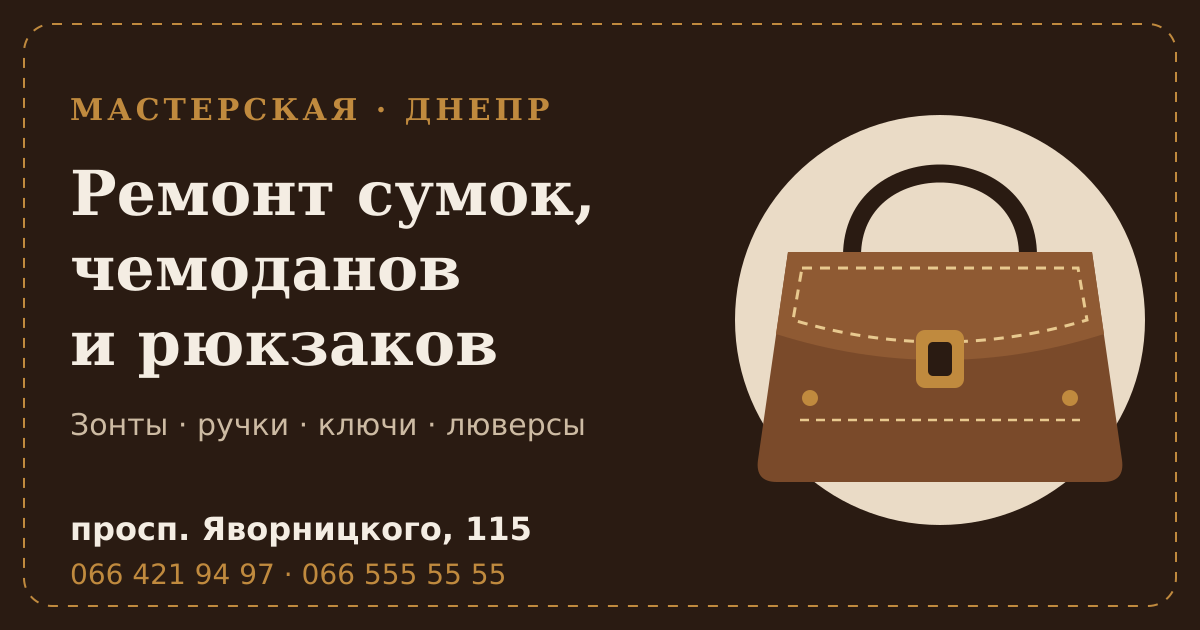
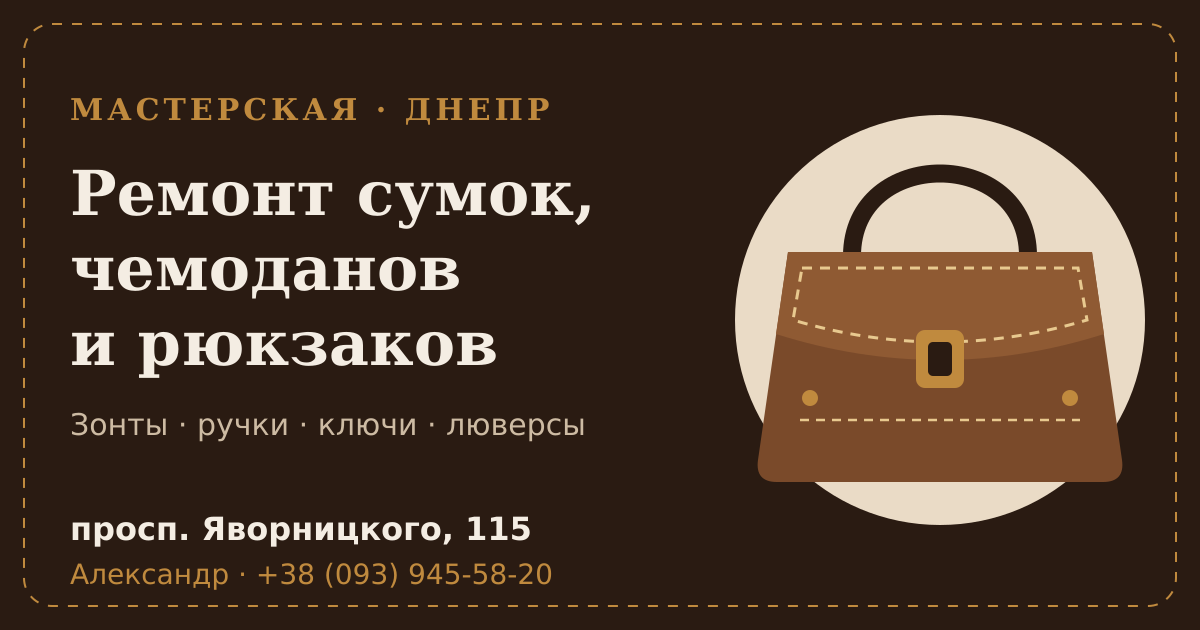
Update phone numbers: main +38 (093) 945-58-20, old one marked temporarily unavailable
Claude-Session: https://claude.ai/code/session_011jZw97bpinQJUhrSSuhUDp

Changed region(s): [[0.0617, 0.8746, 0.4625, 0.9349]]

diff --git a/index.html b/index.html
@@ -46,7 +46,7 @@
       "description": "Ремонт сумок, валіз, рюкзаків і парасольок, пошиття ручок, виготовлення ключів, встановлення люверсів, кнопок і заклепок.",
       "url": "https://alexsandr81.github.io/repair-shop/",
       "image": "https://alexsandr81.github.io/repair-shop/og-image.png",
-      "telephone": ["+380664219497", "+380665555555"],
+      "telephone": "+380939455820",
       "address": {
         "@type": "PostalAddress",
         "streetAddress": "просп. Дмитра Яворницького, 115",
@@ -105,7 +105,7 @@
         {
           "@type": "Question",
           "name": "Чи потрібен запис?",
-          "acceptedAnswer": { "@type": "Answer", "text": "Ні, запис не потрібен. Приходьте в робочий час або зателефонуйте за номерами 066 421 94 97 чи 066 555 55 55." }
+          "acceptedAnswer": { "@type": "Answer", "text": "Ні, запис не потрібен. Приходьте в робочий час або зателефонуйте за номером +38 (093) 945-58-20 (Олександр)." }
         },
         {
           "@type": "Question",
@@ -240,6 +240,10 @@ p{margin:0}
 .info .val{margin-top:8px;font-size:19px;font-style:normal}
 .info .phone{display:block;font-size:26px;font-weight:700;text-decoration:none;padding:4px 0}
 .info .phone:hover{color:var(--brass)}
+.info .phone-item{padding:6px 0}
+.info .who{display:block;font-size:15px;color:var(--cream-muted)}
+.info .phone.dim{color:var(--cream-muted);font-weight:500}
+.info .off .who{color:var(--brass)}
 .hours{width:100%;border-collapse:collapse;margin-top:8px;font-size:18px}
 .hours th{text-align:left;font-weight:500;padding:6px 16px 6px 0;color:var(--cream-muted)}
 .hours td{padding:6px 0;font-weight:700;text-align:right;white-space:nowrap}
@@ -319,7 +323,7 @@ p{margin:0}
         <span class="on" lang="uk" aria-current="true">UA</span>
         <a href="ru/" hreflang="ru" lang="ru" title="Русский">RU</a>
       </div>
-      <a class="btn btn-dark" href="tel:+380664219497">066 421 94 97</a>
+      <a class="btn btn-dark" href="tel:+380939455820">+38 (093) 945-58-20</a>
     </div>
   </div>
 </header>
@@ -333,7 +337,7 @@ p{margin:0}
       <h1 id="h1">Друге життя вашим сумкам, рюкзакам і валізам</h1>
       <p class="sub">Лагодимо, шиємо та підбираємо фурнітуру вручну. Ручки на замовлення, ремонт парасольок, ключі, у тому числі електронні, люверси, кнопки й заклепки — усе в одній майстерні.</p>
       <div class="actions">
-        <a class="btn btn-brass" href="tel:+380664219497">Зателефонувати</a>
+        <a class="btn btn-brass" href="tel:+380939455820">Зателефонувати</a>
         <a class="btn btn-ghost" href="#contacts">Як нас знайти</a>
       </div>
       <p class="note">Запис не потрібен: принесіть річ, ми подивимося на неї й одразу скажемо ціну. Працюємо вт–пт 8:00–17:00, сб 9:00–18:00.</p>
@@ -623,7 +627,7 @@ p{margin:0}
       <div class="faq">
         <details>
           <summary>Чи потрібен запис?</summary>
-          <p>Ні, запис не потрібен. Приходьте в робочий час або зателефонуйте за номерами 066 421 94 97 чи 066 555 55 55.</p>
+          <p>Ні, запис не потрібен. Приходьте в робочий час або зателефонуйте за номером +38 (093) 945-58-20 (Олександр).</p>
         </details>
         <details>
           <summary>Скільки коштує ремонт?</summary>
@@ -657,8 +661,14 @@ p{margin:0}
           <div class="row">
             <div class="label">Телефони</div>
             <div class="val">
-              <a class="phone" href="tel:+380664219497">066 421 94 97</a>
-              <a class="phone" href="tel:+380665555555">066 555 55 55</a>
+              <div class="phone-item">
+                <a class="phone" href="tel:+380939455820">+38 (093) 945-58-20</a>
+                <span class="who">Олександр</span>
+              </div>
+              <div class="phone-item off">
+                <span class="phone dim">+38 (066) 421-94-97</span>
+                <span class="who">Олександр · тимчасово не працює</span>
+              </div>
             </div>
           </div>
           <div class="row">
@@ -693,12 +703,12 @@ p{margin:0}
 <footer class="site-footer">
   <div class="wrap foot">
     <span>© Майстерня з ремонту сумок · м. Дніпро, просп. Дмитра Яворницького, 115</span>
-    <span><a href="tel:+380664219497">066 421 94 97</a> · <a href="tel:+380665555555">066 555 55 55</a></span>
+    <span>Олександр: <a href="tel:+380939455820">+38 (093) 945-58-20</a> · +38 (066) 421-94-97 (тимчасово не працює)</span>
   </div>
 </footer>
 
 <div class="callbar">
-  <a class="btn btn-brass" href="tel:+380664219497">Зателефонувати</a>
+  <a class="btn btn-brass" href="tel:+380939455820">Зателефонувати</a>
   <a class="btn btn-ghost-light" href="https://www.google.com/maps/dir/?api=1&amp;destination=48.473967,35.022590" target="_blank" rel="noopener">Маршрут</a>
 </div>
 

diff --git a/ru/index.html b/ru/index.html
@@ -46,7 +46,7 @@
       "description": "Ремонт сумок, чемоданов, рюкзаков и зонтов, пошив ручек, изготовление ключей, установка люверсов, кнопок и заклёпок.",
       "url": "https://alexsandr81.github.io/repair-shop/ru/",
       "image": "https://alexsandr81.github.io/repair-shop/og-image-ru.png",
-      "telephone": ["+380664219497", "+380665555555"],
+      "telephone": "+380939455820",
       "address": {
         "@type": "PostalAddress",
         "streetAddress": "просп. Дмитрия Яворницкого, 115",
@@ -105,7 +105,7 @@
         {
           "@type": "Question",
           "name": "Нужна ли запись?",
-          "acceptedAnswer": { "@type": "Answer", "text": "Нет, запись не нужна. Приходите в рабочее время или позвоните по номерам 066 421 94 97 или 066 555 55 55." }
+          "acceptedAnswer": { "@type": "Answer", "text": "Нет, запись не нужна. Приходите в рабочее время или позвоните по номеру +38 (093) 945-58-20 (Александр)." }
         },
         {
           "@type": "Question",
@@ -240,6 +240,10 @@ p{margin:0}
 .info .val{margin-top:8px;font-size:19px;font-style:normal}
 .info .phone{display:block;font-size:26px;font-weight:700;text-decoration:none;padding:4px 0}
 .info .phone:hover{color:var(--brass)}
+.info .phone-item{padding:6px 0}
+.info .who{display:block;font-size:15px;color:var(--cream-muted)}
+.info .phone.dim{color:var(--cream-muted);font-weight:500}
+.info .off .who{color:var(--brass)}
 .hours{width:100%;border-collapse:collapse;margin-top:8px;font-size:18px}
 .hours th{text-align:left;font-weight:500;padding:6px 16px 6px 0;color:var(--cream-muted)}
 .hours td{padding:6px 0;font-weight:700;text-align:right;white-space:nowrap}
@@ -319,7 +323,7 @@ p{margin:0}
         <a href="../" hreflang="uk" lang="uk" title="Українська">UA</a>
         <span class="on" lang="ru" aria-current="true">RU</span>
       </div>
-      <a class="btn btn-dark" href="tel:+380664219497">066 421 94 97</a>
+      <a class="btn btn-dark" href="tel:+380939455820">+38 (093) 945-58-20</a>
     </div>
   </div>
 </header>
@@ -333,7 +337,7 @@ p{margin:0}
       <h1 id="h1">Вторая жизнь вашим сумкам, рюкзакам и чемоданам</h1>
       <p class="sub">Чиним, шьём и подбираем фурнитуру вручную. Ручки на заказ, ремонт зонтов, ключи, в том числе электронные, люверсы, кнопки и заклёпки — всё в одной мастерской.</p>
       <div class="actions">
-        <a class="btn btn-brass" href="tel:+380664219497">Позвонить</a>
+        <a class="btn btn-brass" href="tel:+380939455820">Позвонить</a>
         <a class="btn btn-ghost" href="#contacts">Как нас найти</a>
       </div>
       <p class="note">Запись не нужна: принесите вещь, мы посмотрим её и сразу скажем цену. Работаем вт–пт 8:00–17:00, сб 9:00–18:00.</p>
@@ -623,7 +627,7 @@ p{margin:0}
       <div class="faq">
         <details>
           <summary>Нужна ли запись?</summary>
-          <p>Нет, запись не нужна. Приходите в рабочее время или позвоните по номерам 066 421 94 97 или 066 555 55 55.</p>
+          <p>Нет, запись не нужна. Приходите в рабочее время или позвоните по номеру +38 (093) 945-58-20 (Александр).</p>
         </details>
         <details>
           <summary>Сколько стоит ремонт?</summary>
@@ -657,8 +661,14 @@ p{margin:0}
           <div class="row">
             <div class="label">Телефоны</div>
             <div class="val">
-              <a class="phone" href="tel:+380664219497">066 421 94 97</a>
-              <a class="phone" href="tel:+380665555555">066 555 55 55</a>
+              <div class="phone-item">
+                <a class="phone" href="tel:+380939455820">+38 (093) 945-58-20</a>
+                <span class="who">Александр</span>
+              </div>
+              <div class="phone-item off">
+                <span class="phone dim">+38 (066) 421-94-97</span>
+                <span class="who">Александр · временно не работает</span>
+              </div>
             </div>
           </div>
           <div class="row">
@@ -693,12 +703,12 @@ p{margin:0}
 <footer class="site-footer">
   <div class="wrap foot">
     <span>© Мастерская по ремонту сумок · г. Днепр, просп. Дмитрия Яворницкого, 115</span>
-    <span><a href="tel:+380664219497">066 421 94 97</a> · <a href="tel:+380665555555">066 555 55 55</a></span>
+    <span>Александр: <a href="tel:+380939455820">+38 (093) 945-58-20</a> · +38 (066) 421-94-97 (временно не работает)</span>
   </div>
 </footer>
 
 <div class="callbar">
-  <a class="btn btn-brass" href="tel:+380664219497">Позвонить</a>
+  <a class="btn btn-brass" href="tel:+380939455820">Позвонить</a>
   <a class="btn btn-ghost-light" href="https://www.google.com/maps/dir/?api=1&amp;destination=48.473967,35.022590" target="_blank" rel="noopener">Маршрут</a>
 </div>
 

diff --git a/README.md b/README.md
@@ -23,7 +23,7 @@ Settings → Pages → Source: `Deploy from a branch`, branch `main`, папка
 
 Будь-яку зміну тексту, телефону чи графіка потрібно вносити в обидва файли: `index.html` і `ru/index.html`.
 
-- Телефони: `066 421 94 97`, `066 555 55 55` (пошук по `380664219497` і `380665555555`)
+- Телефони: Олександр, `+38 (093) 945-58-20` (основний, у шапці та на кнопках «Зателефонувати») і `+38 (066) 421-94-97` (позначений «тимчасово не працює»). Пошук по `380939455820` і `066) 421`
 - Графік: вт–пт 8:00–17:00, сб 9:00–18:00, нд і пн вихідні (у розділі «Контакти», у блоці запитань і в JSON-LD)
 - Адреса та координати: `48.473967, 35.022590`
 - Назва в шапці зараз описова («Майстерня з ремонту сумок» / «Мастерская по ремонту сумок»): за потреби замініть на справжню
